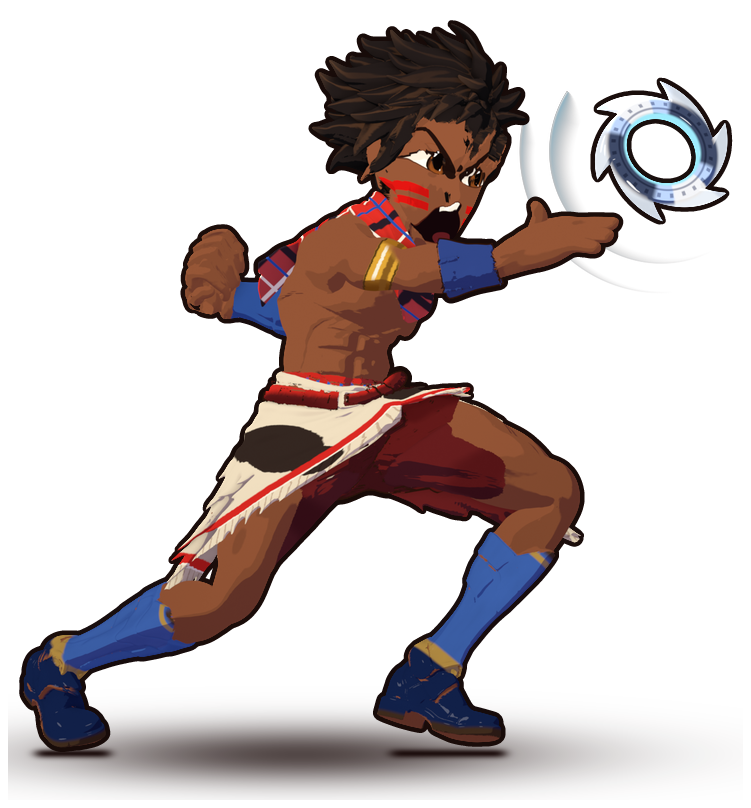
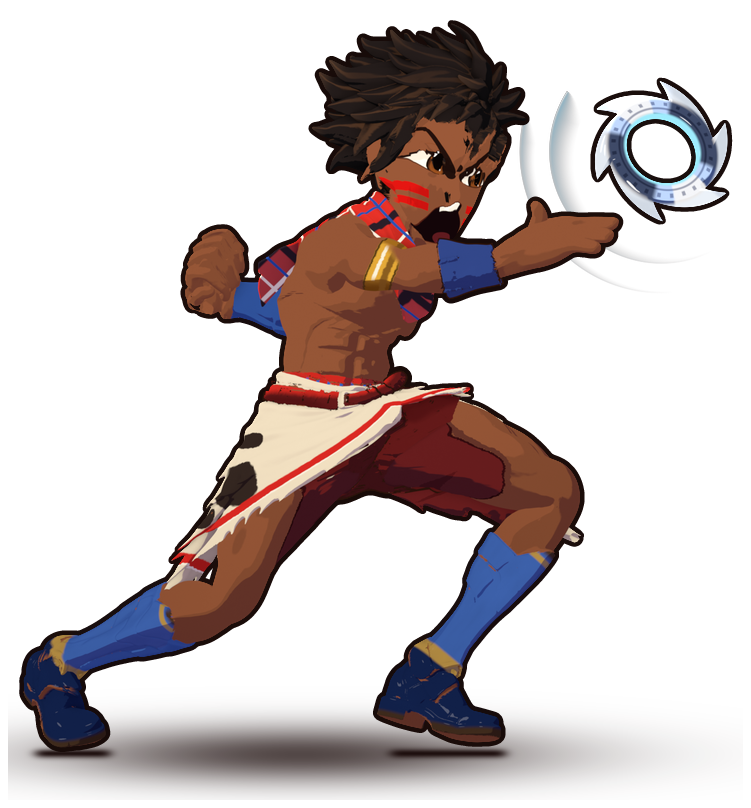
Hero key art k27 (won its A/B against k25 with both blind judges): the waist only. The big black cowhide spot at the crotch becomes three irregular soft-edged spots at the hip edge, with a cleaner white; the maroon underwrap keeps its colour and ends on the thigh with a dark rolled hem and a crisp h

Changed region(s): [[0.2756, 0.526, 0.4594, 0.6498], [0.5206, 0.526, 0.6738, 0.6498], [0.5206, 0.4641, 0.5819, 0.495]]

diff --git a/New/tools/art/blender/hero_toon_aaa.py b/New/tools/art/blender/hero_toon_aaa.py
@@ -145,6 +145,18 @@ COW_DARK = (0.03, 0.018, 0.014)  ## (k9: black-brown; k7 (0.085, 0.032, 0.018)) 
 ## front apron, two on the back)
 COW_SPOTS_FRONT = ((-0.062, 0.006, 0.042, 0.032), (0.055, 0.045, 0.028, 0.024))  ## (k11: two big designed shapes, "random
 COW_SPOTS_BACK = ((0.04, -0.07, 0.04, 0.032),)  ## black blobs")
+## (key art k27, "the big black spot sits at the crotch and reads as a hole or stain", "a diaper") the pictures' front
+## apron: three irregular spots of different sizes, off the groin, toward the hip edge and the panel's lower half (rest y, z,
+## radius y, radius z; no automatic satellites), each with a soft fur edge
+COW_SPOTS_KEY = ((-0.1, -0.046, 0.023, 0.027), (-0.127, -0.083, 0.012, 0.015), (-0.093, 0.013, 0.014, 0.011))
+## (key art k27, "the maroon underwrap merges with the thigh skin in value: a stain") the wrap's maroon kept, drawn apart from
+## the thigh: a dark rolled hem where it ends (HEM_W rest units wide), a crisp cast shadow from it on the skin (HEM_SHADOW wide),
+## one clean fold inside it (rest: from x -0.05, z -0.035 to x 0.035, z -0.08 across the thigh, at most WRAP_FOLD_W wide)
+WRAP_HEM = (0.028, 0.0028, 0.004)
+HEM_W = 0.0024
+HEM_SHADOW = 0.0055
+WRAP_FOLD = ((-0.05, -0.035), (0.035, -0.08))
+WRAP_FOLD_W = 0.0065
 WRAP_STRAP = (0.07, 0.032, 0.016)  ## (key art k9, "plastic socks") the shin guards' binding straps, dark leather
 GUARD_BLUE = (0.045, 0.12, 0.42)  ## (k11) the shin guard, a lighter blue
 BOOT_NAVY = (0.006, 0.016, 0.075)  ## and the boot under it, a dark navy leather
@@ -312,7 +324,8 @@ def build(m, mode="day"):
             albedo = g.mix("MIX", DAY_FLAT_K, albedo, UI_FLAT[region])
     geo = g.node("ShaderNodeNewGeometry")
     N = geo.outputs["Normal"]
-    if nm_img is not None and region in NORMAL_MAP and not (mode == "sunset" and BOLD and region in ("armour_blue", "armour_silver")):
+    if nm_img is not None and region in NORMAL_MAP and not (mode == "sunset" and BOLD and region in ("armour_blue", "armour_silver", "fur", "belt")):
+        # (key art k27: and none on the cowhide and the wrap: "grey speckles in the white", "muddy smears")
         # (key art k11: no painted normal map on the guards and boots in the pictures: "glossy white streaks")
         nt_tex = g.node("ShaderNodeTexImage")
         nt_tex.image = nm_img
@@ -347,7 +360,8 @@ def build(m, mode="day"):
     bw = g.node("ShaderNodeRGBToBW")
     g.link(s2r.outputs["Color"], bw.inputs[0])
     L = bw.outputs[0]
-    if region == "fur":  # strands: the light itself broken along them (a stepped terminator)
+    if region == "fur" and not (mode == "sunset" and BOLD):  # strands: the light itself broken along them (a stepped terminator)
+        # (key art k27: not in the pictures, "grey speckles in the white")
         strand = g.noise(P, (38.0, 38.0, 4.0), 1.0, 0.4)  # (round 14: tufts, not scratchy strands)
         L = g.math("ADD", L, g.math("MULTIPLY", g.math("SUBTRACT", strand, 0.5), 0.18))
     if region == "face" and mode == "sunset":  # (round 13) out of the hair's shadow
@@ -357,6 +371,16 @@ def build(m, mode="day"):
     height = sepr.outputs["Z"]  # (rest shape: -0.5 at his soles, 0.5 at the top of his hair)
     if BOLD and not flat and region in ("skin", "face", "hand"):  # (round 15) his chest and face in the most light
         L = g.math("ADD", L, g.math("MULTIPLY", g.smooth(height, 0.0, 0.3), CHEST_LIFT))
+    hem_d = None
+    if mode == "sunset" and BOLD and not flat and (region == "skin" or (region == "belt" and m.name == "AAA_belt")):
+        # (key art k27) the distance from where the wrap ends on the thigh (hero_render.py key_hem(): + on the skin, - on the cloth)
+        att_h = g.node("ShaderNodeAttribute")
+        att_h.attribute_name = "hem_d"
+        legs = g.smooth(height, 0.0, -0.012)  # (the thighs only, not the sash on his belly)
+        hem_d = att_h.outputs["Fac"]
+        if region == "skin":  # a crisp shadow cast by the hem on the skin just below it
+            cast = g.math("MULTIPLY", g.math("MULTIPLY", g.smooth(hem_d, HEM_SHADOW, HEM_SHADOW * 0.85), g.math("GREATER_THAN", hem_d, 0.0)), legs)
+            L = g.math("SUBTRACT", L, g.math("MULTIPLY", cast, 1.5))
     if region == "hair":  # the locks: their own terminator, broken per lock (round 15: big locks, "a fuzzy helmet")
         lock = g.noise(P, (9.0, 9.0, 9.0), 0.0, 0.4)  # (key art k3: 16 -> 9, 5-7 big locks, "a pineapple top")
         L = g.math("ADD", L, g.math("MULTIPLY", g.math("SUBTRACT", lock, 0.5), 0.3))  # (k10: k7's grouped locks back)
@@ -497,12 +521,18 @@ def build(m, mode="day"):
         wob = g.math("MULTIPLY", g.math("SUBTRACT", g.noise(P, (14.0, 14.0, 14.0), 0.0, 0.5), 0.5), 0.9)  # (k11: smooth lobes, designed, not ragged)
         front_k = g.smooth(sepr.outputs["X"], -0.005, 0.01)
         spots = None
-        for side_k, table in ((front_k, COW_SPOTS_FRONT), (g.math("SUBTRACT", 1.0, front_k), COW_SPOTS_BACK)):
-            for cy_, cz_, ry_, rz_ in [sp_ for c in table for sp_ in (c, (c[0] + c[2] * 0.75, c[1] - c[3] * 0.55, c[2] * 0.55, c[3] * 0.6))]:
+        # (key art k27) the soft fur edge: fine tufts breaking the outline, a narrow soft step, not a hard decal oval
+        fur_e = g.math("MULTIPLY", g.math("SUBTRACT", g.noise(P, (160.0, 160.0, 160.0), 1.0, 0.5), 0.5), 0.35)
+        fur_e = g.math("ADD", fur_e, g.math("MULTIPLY", g.math("SUBTRACT", g.noise(P, (42.0, 42.0, 42.0), 0.0, 0.5), 0.5), 0.9))  # (lobes: irregular, not round)
+        back_table = [sp_ for c in COW_SPOTS_BACK for sp_ in (c, (c[0] + c[2] * 0.75, c[1] - c[3] * 0.55, c[2] * 0.55, c[3] * 0.6))]
+        for side_k, table, edge_ in ((front_k, list(COW_SPOTS_KEY), True), (g.math("SUBTRACT", 1.0, front_k), back_table, False)):
+            for cy_, cz_, ry_, rz_ in table:
                 dy = g.math("DIVIDE", g.math("SUBTRACT", sepr.outputs["Y"], cy_), ry_)
                 dz = g.math("DIVIDE", g.math("SUBTRACT", height, cz_), rz_)
                 d = g.math("ADD", g.math("ADD", g.math("MULTIPLY", dy, dy), g.math("MULTIPLY", dz, dz)), wob)
-                one = g.math("MULTIPLY", g.smooth(d, 1.04, 0.96), side_k)
+                if edge_:
+                    d = g.math("ADD", d, fur_e)
+                one = g.math("MULTIPLY", g.smooth(d, 1.1, 0.9) if edge_ else g.smooth(d, 1.04, 0.96), side_k)
                 spots = one if spots is None else g.math("MAXIMUM", spots, one)
         colour = g.mix("MIX", spots, colour, g.mix("MULTIPLY", 1.0, ramp.outputs["Color"], COW_DARK))
         # the hem's line: on the front apron a V, highest near the middle (rest: z -0.002 at y 0.02, falling 0.95 a unit
@@ -512,7 +542,7 @@ def build(m, mode="day"):
         rel = g.math("SUBTRACT", height, g.math("ADD", hem_z, 0.028))
         hem = g.math("MULTIPLY", g.smooth(rel, -0.001, 0.001), g.smooth(rel, 0.013, 0.011))
         fringe = g.math("MULTIPLY", g.smooth(rel, 0.0, -0.002), g.smooth(g.math("FRACT", g.math("MULTIPLY", sepr.outputs["Y"], 140.0)), 0.75, 0.85))
-        colour = g.mix("MULTIPLY", g.math("MULTIPLY", fringe, 0.6), colour, (0.5, 0.36, 0.3))
+        colour = g.mix("MULTIPLY", g.math("MULTIPLY", fringe, 0.0), colour, (0.5, 0.36, 0.3))  # (key art k27: no strand lines, "torn tissue paper")
         # (key art k10, "the red-and-white candy-cane hem looks like barber tape") a calm band: solid red, one white
         # line along its lower edge
         colour = g.mix("MIX", hem, colour, g.mix("MULTIPLY", 1.0, ramp.outputs["Color"], HEM_BEADS[0]))
@@ -638,11 +668,27 @@ def build(m, mode="day"):
         mid = g.math("MULTIPLY", band, g.smooth(g.math("ABSOLUTE", g.math("SUBTRACT", t, -0.002)), 0.0026, 0.0012))
         shine = g.math("MULTIPLY", mid, g.smooth(edge, 0.4, 0.1))
         colour = g.mix("MIX", g.math("MULTIPLY", shine, 0.95), colour, (1.0, 0.94, 0.75))
-    if region == "belt" and mode == "sunset" and BOLD:
+    if region == "belt" and mode == "sunset" and BOLD and hem_d is None:
         # (key art k11, "the maroon shorts one flat block") folds across the cloth under the kilt
         fold_u = g.math("SINE", g.math("MULTIPLY", g.math("ADD", sepr.outputs["Z"], g.math("MULTIPLY", sepr.outputs["Y"], 0.6)), 55.0))
         under = g.smooth(height, 0.075, 0.065)
         colour = g.mix("MULTIPLY", g.math("MULTIPLY", g.math("MULTIPLY", g.smooth(fold_u, 0.2, 0.9), under), 0.55), colour, (0.45, 0.3, 0.4))
+    if region == "belt" and hem_d is not None:
+        # (key art k27, "muddy smears") one clean fold across the thigh: a lens of shadow, pointed at both ends, crisp
+        (fx0, fz0), (fx1, fz1) = WRAP_FOLD
+        flen = ((fx1 - fx0) ** 2 + (fz1 - fz0) ** 2) ** 0.5
+        ux, uz = (fx1 - fx0) / flen, (fz1 - fz0) / flen
+        px_ = g.math("SUBTRACT", sepr.outputs["X"], fx0)
+        pz_ = g.math("SUBTRACT", height, fz0)
+        along = g.math("DIVIDE", g.math("ADD", g.math("MULTIPLY", px_, ux), g.math("MULTIPLY", pz_, uz)), flen)
+        across = g.math("ABSOLUTE", g.math("SUBTRACT", g.math("MULTIPLY", pz_, ux), g.math("MULTIPLY", px_, uz)))
+        half = g.math("MULTIPLY", g.math("SINE", g.math("MULTIPLY", g.math("MINIMUM", g.math("MAXIMUM", along, 0.0), 1.0), 3.14159)), WRAP_FOLD_W)
+        fold = g.math("MULTIPLY", g.math("LESS_THAN", across, half), g.smooth(height, 0.0, -0.012))
+        colour = g.mix("MULTIPLY", g.math("MULTIPLY", fold, 0.6), colour, (0.45, 0.3, 0.4))
+        # the hem: a dark rolled edge where the cloth ends on the thigh
+        hem = g.math("MULTIPLY", g.math("MULTIPLY", g.smooth(g.math("MULTIPLY", hem_d, -1.0), HEM_W, HEM_W * 0.8),
+                                        g.math("LESS_THAN", hem_d, 0.0)), g.smooth(height, 0.0, -0.012))  # (0: no attribute)
+        colour = g.mix("MIX", hem, colour, g.mix("MULTIPLY", 1.0, ramp.outputs["Color"], WRAP_HEM))
     if region == "belt" and BOLD and not flat:
         # (round 16) the belt carries the costume's pattern: a white zigzag round it, a row of blue beads under it
         ang_b = g.math("ARCTAN2", sepr.outputs["Y"], sepr.outputs["X"])

diff --git a/New/tools/art/blender/hero_render.py b/New/tools/art/blender/hero_render.py
@@ -2135,6 +2135,11 @@ def key_skin_normals():
     lv = np.zeros(len(MESH.data.loops), np.int64); MESH.data.loops.foreach_get("vertex_index", lv)
     fid = np.repeat(np.arange(len(MESH.data.polygons)), lt)
     skin = np.zeros(len(MESH.data.vertices), bool); skin[lv[mi[fid] == 0]] = True  # (the skin material only)
+    names = [m_.name if m_ else "" for m_ in MESH.data.materials]
+    if "AAA_belt" in names:  # (key art k27, "muddy smears") and the wrap on his thighs: its shading surface smoothed too
+        rz = np.zeros(len(MESH.data.vertices) * 3, np.float32); MESH.data.attributes["rest_co"].data.foreach_get("vector", rz)
+        wrap = np.zeros(len(MESH.data.vertices), bool); wrap[lv[mi[fid] == names.index("AAA_belt")]] = True
+        skin |= wrap & (rz.reshape(-1, 3)[:, 2] < 0.03)
     vg = MESH.vertex_groups.get("AAA_key_skin") or MESH.vertex_groups.new(name="AAA_key_skin")
     vg.add(np.nonzero(skin)[0].tolist(), 1.0, "REPLACE")
     md = MESH.modifiers.new("AAA_key_skin", "DATA_TRANSFER")
@@ -2145,6 +2150,41 @@ def key_skin_normals():
     md.vertex_group = vg.name
     bpy.context.view_layer.update()
     print("KEY_SKIN on", int(skin.sum()), path)
+
+
+def key_hem():
+    """(Key art k27, "the maroon underwrap merges with the thigh skin in value") the distance along his surface from where the
+    wrap (AAA_belt) meets the skin, as the attribute "hem_d" (rest units: + on the skin, - on the cloth, 0 elsewhere): the toon
+    shader draws the wrap's dark hem and the shadow the hem casts on the thigh from it."""
+    if not (AAA and arg("--light", "day") == "sunset"):
+        return
+    me = MESH.data
+    names = [m.name if m else "" for m in me.materials]
+    if "AAA_belt" not in names or "AAA_skin" not in names:
+        return
+    n = len(me.vertices)
+    rc = np.zeros(n * 3, np.float32); me.attributes["rest_co"].data.foreach_get("vector", rc); rc = rc.reshape(-1, 3)
+    ev = np.zeros(len(me.edges) * 2, np.int64); me.edges.foreach_get("vertices", ev); ev = ev.reshape(-1, 2)
+    mi = np.zeros(len(me.polygons), np.int64); me.polygons.foreach_get("material_index", mi)
+    lt = np.zeros(len(me.polygons), np.int64); me.polygons.foreach_get("loop_total", lt)
+    lv = np.zeros(len(me.loops), np.int64); me.loops.foreach_get("vertex_index", lv)
+    fm = np.repeat(mi, lt)
+    on_s = np.zeros(n, bool); on_s[lv[fm == names.index("AAA_skin")]] = True
+    on_b = np.zeros(n, bool); on_b[lv[fm == names.index("AAA_belt")]] = True
+    inside = on_s | on_b
+    e = ev[inside[ev[:, 0]] & inside[ev[:, 1]]]
+    ln = np.linalg.norm(rc[e[:, 0]] - rc[e[:, 1]], axis=1)
+    d = np.full(n, 1.0, np.float64)
+    d[on_s & on_b] = 0.0
+    for _ in range(16):  # (about 1.7 cm along the surface: enough for the hem and its shadow)
+        np.minimum.at(d, e[:, 1], d[e[:, 0]] + ln)
+        np.minimum.at(d, e[:, 0], d[e[:, 1]] + ln)
+    val = np.where(on_b & ~on_s, -d, d)
+    val[on_s & on_b] = -1e-5
+    val[~inside] = 0.0
+    att = me.attributes.get("hem_d") or me.attributes.new("hem_d", "FLOAT", "POINT")
+    att.data.foreach_set("value", val.astype(np.float32))
+    print("KEY_HEM seam", int((on_s & on_b).sum()))
 
 
 def toon_setup():
@@ -2316,6 +2356,7 @@ def main():
     if arg("--style", "toon") == "toon":
         toon_setup()
     key_skin_normals()
+    key_hem()
     wanted = arg("--anims", ",".join(table)).split(",")
     for name in wanted:
         render(name, *table[name])
